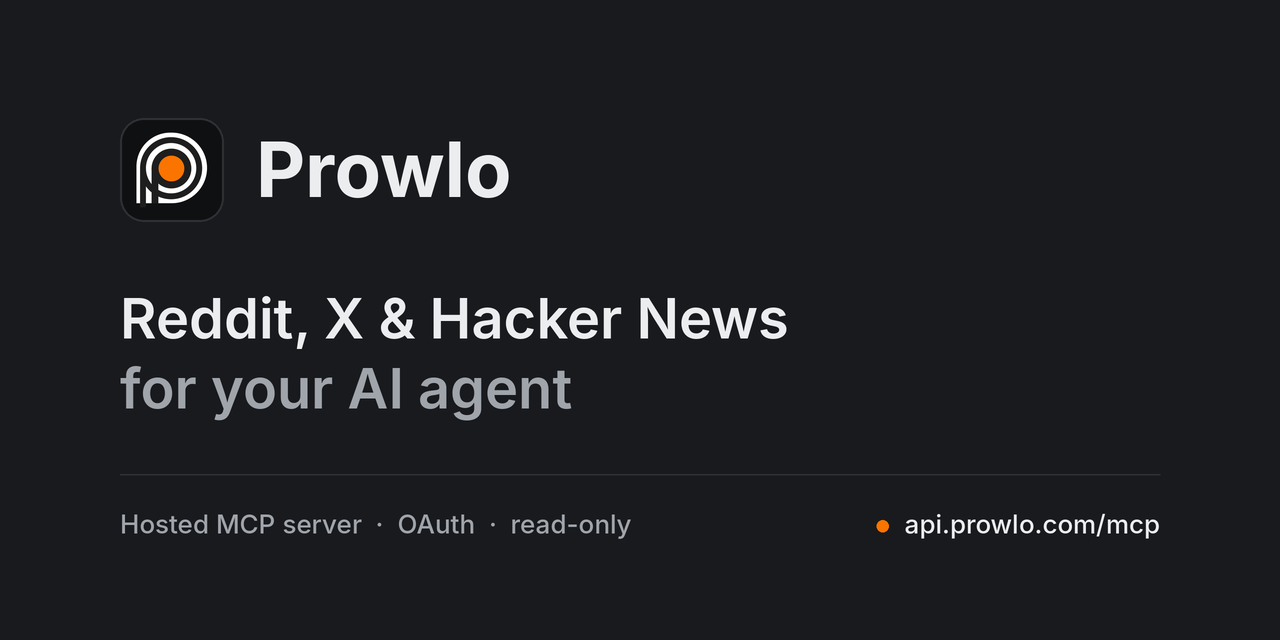
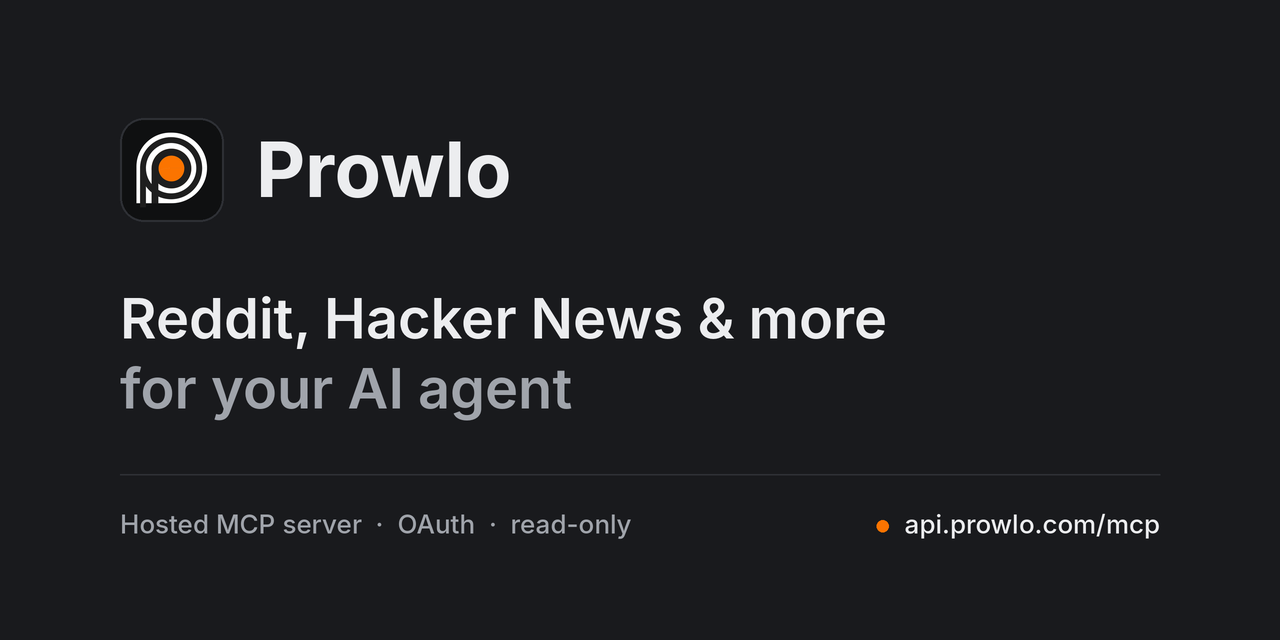
Apply directory-policy review fixes to docs and manifests
- Lead with Reddit and Hacker News (H1, tagline, server.json, plugin.json,
  social preview); X is one source among several
- Read-only wording; drop drafting and lead-gen framing
- Stop advertising watching individual Reddit users; reword social_get_user*
  and add a responsible-use line
- List Watcher platform values; trial live-read cap (50/day)
- Revoke via Settings > Connected Apps; research_get wording
- Remove .claude-plugin/ and .mcp.json (real plugin lives in
  prowlo-com/prowlo-plugin); link it from the README
- Remove Smithery badge
- Cline config: "type": "streamableHttp"
- server.json: light/dark icons matching the live server

Claude-Session: https://claude.ai/code/session_011snKU4sbhrmymS5zJMkMQF

Changed region(s): [[0.25, 0.4688, 0.6875, 0.5312]]

diff --git a/README.md b/README.md
@@ -1,10 +1,9 @@
-# Prowlo — give your AI agent eyes on Reddit & X
+# Prowlo — Reddit, Hacker News & more for your AI agent
 
 [![License: MIT](https://img.shields.io/badge/license-MIT-blue.svg)](LICENSE)
 [![MCP Registry](https://img.shields.io/badge/MCP_Registry-com.prowlo%2Freddit--x-ff7400)](https://registry.modelcontextprotocol.io/v0/servers?search=com.prowlo/reddit-x)
-[![smithery badge](https://smithery.ai/badge/egidijus-ambr/prowlo)](https://smithery.ai/servers/egidijus-ambr/prowlo)
 
-**Social research for AI agents — research that runs 24/7.** Prowlo is a hosted MCP server. Watchers collect new posts from Reddit, X, Hacker News, Mastodon and RSS, and your agent searches them by meaning from Claude, Cursor or any MCP client.
+**Social research for AI agents — research that runs 24/7.** Prowlo is a hosted MCP server. Watchers collect new posts from Reddit and Hacker News (plus Mastodon, RSS and X), and your agent searches them by meaning from Claude, Cursor or any MCP client.
 
 ```text
 https://api.prowlo.com/mcp
@@ -14,8 +13,8 @@ https://api.prowlo.com/mcp
 
 - **Memory, not a one-off peek.** Watchers keep collecting while your laptop is closed, so your agent can look back at last week or last month.
 - **Search by meaning.** Ask for "people frustrated with their CRM" and get those posts, not just exact keyword hits.
-- **Live reads when you need them.** Pull a Reddit or Hacker News post, thread or user right now.
-- **Read-only.** Prowlo never posts, comments or votes. Your agent finds and drafts; you decide.
+- **Live reads when you need them.** Pull a Reddit or Hacker News post or comment thread right now.
+- **Prowlo is read-only.** It never posts, comments or votes.
 - **No setup.** Sign in with OAuth. No Reddit API keys, no config files for most clients.
 
 ## Contents
@@ -49,6 +48,8 @@ claude mcp add --transport http prowlo https://api.prowlo.com/mcp
 
 Then run `/mcp` inside Claude Code, pick **prowlo** and choose **Authenticate**. Add `-s user` to the first command to make Prowlo available in every project.
 
+Claude Code plugin with skills: [github.com/prowlo-com/prowlo-plugin](https://github.com/prowlo-com/prowlo-plugin)
+
 ### Cursor
 
 Add to `~/.cursor/mcp.json` (or **Settings → MCP → Add new server**). Cursor opens a browser window to sign in.
@@ -79,12 +80,13 @@ code --add-mcp '{"name":"prowlo","type":"http","url":"https://api.prowlo.com/mcp
 }
 ```
 
-**Cline** (`cline_mcp_settings.json`) and other clients that need a key: create an API key in your Prowlo settings and send it as a header.
+**Cline** (`cline_mcp_settings.json`) and other clients that need a key: create an API key in your Prowlo settings and send it as a header. Cline needs `"type": "streamableHttp"`; without it, Cline falls back to the legacy SSE transport.
 
 ```json
 {
   "mcpServers": {
     "prowlo": {
+      "type": "streamableHttp",
       "url": "https://api.prowlo.com/mcp",
       "headers": { "Authorization": "Bearer YOUR_PROWLO_API_KEY" }
     }
@@ -107,8 +109,8 @@ Ready-to-copy config files for each client are in [`examples/`](examples/).
 Once connected, just ask your agent:
 
 - "Watch r/SaaS and r/startups, and add a keyword monitor for 'GummySearch alternative' across all of Reddit."
-- "Search my Prowlo records from the last 30 days for people asking for a tool to track Reddit mentions. Summarize the top five with links."
-- "Which subreddits are best for indie SaaS founders, and how strict are they about self-promotion?"
+- "Search my Prowlo records from the last 30 days for discussions about tracking Reddit mentions. Summarize the main points with links."
+- "Which subreddits are best for indie SaaS founders, and what are their posting rules?"
 - "What are people on Hacker News saying about running LLMs locally this week? Read the top thread and summarize the main arguments."
 - "Create an alert that sends new posts mentioning our brand to Slack."
 - "Set up a daily trend for mentions of our competitor and show me how it changed this month."
@@ -140,8 +142,8 @@ Real-time Reddit and Hacker News reads. Metered: 1 credit each, daily cap.
 | `social_search` | Search Reddit or Hacker News right now | Read |
 | `social_list_posts` | List a subreddit's posts or Hacker News stories (hot, new, top, ...) | Read |
 | `social_get_post` | Fetch one post or story with its comment thread | Read |
-| `social_get_user` | Fetch a Reddit or Hacker News user profile | Read |
-| `social_get_user_activity` | Fetch a user's recent posts or comments | Read |
+| `social_get_user` | Public profile of an account in a thread you're reading (Reddit or Hacker News) | Read |
+| `social_get_user_activity` | Recent public posts or comments of an account in a thread you're reading | Read |
 | `social_find_channels` | Find subreddits, or get one subreddit's details and rules | Read |
 
 ### Catalog
@@ -161,7 +163,7 @@ What Prowlo collects into your Dataset.
 | Tool | What it does | Access |
 |---|---|---|
 | `list_watchers` | List your Watchers, their sources, tags and status | Read |
-| `watcher_create` | Start watching a subreddit, user, feed or Reddit-wide search query | **Write** |
+| `watcher_create` | Start watching a subreddit, Hacker News, a Mastodon or RSS feed, an X account, or a Reddit-wide search query | **Write** |
 | `watcher_update` | Pause or resume a Watcher, or replace its tags | **Write** |
 | `watcher_delete` | Delete a Watcher and its records | **Write** |
 | `watcher_remove_source` | Remove a source from a Watcher | **Write** |
@@ -212,7 +214,7 @@ Your own labels on collected posts. These do not search Reddit.
 
 | Tool | What it does | Access |
 |---|---|---|
-| `research_get` | Read your community research report: ranked subreddits with quoted evidence, competitors, voice of customer and an engagement plan | Read |
+| `research_get` | Read your community research report: ranked subreddits with quoted evidence, competitors and voice of customer, if Prowlo has prepared one for your workspace | Read |
 
 Full API reference: <https://prowlo.com/docs/api-reference>
 
@@ -220,13 +222,24 @@ Full API reference: <https://prowlo.com/docs/api-reference>
 
 | Source | Watch (collected into your records) | Live reads |
 |---|---|---|
-| **Reddit** | Subreddits, Reddit users, and keyword searches across all of Reddit | Yes |
-| **X** | Accounts | — |
+| **Reddit** | Subreddits and keyword searches across all of Reddit | Yes |
 | **Hacker News** | Yes | Yes |
 | **Mastodon** | Yes | — |
 | **RSS** | Any feed | — |
+| **X** | Accounts (paid plan) | — |
 
-Each Watcher follows one source. New posts are collected on an hourly schedule and become searchable by meaning. Keyword Monitors search all of Reddit once a day.
+Each Watcher follows one source. When your agent creates a Watcher, it sets the `platform` to one of:
+
+| `platform` | Watches |
+|---|---|
+| `reddit` | One subreddit (the default) |
+| `reddit_search` | A search query across all of Reddit, checked daily (a Keyword Monitor) |
+| `hackernews` | A Hacker News feed or query |
+| `mastodon` | A Mastodon hashtag or account feed |
+| `rss` | Any RSS or Atom feed |
+| `x_user` | One X account (paid plan only) |
+
+New posts are collected on an hourly schedule and become searchable by meaning. Keyword Monitors search all of Reddit once a day.
 
 ## Limits & pricing
 
@@ -236,7 +249,7 @@ The plan includes:
 
 - 25 Watchers, each checked hourly
 - 20 Keyword Monitors across all of Reddit (3 during the trial)
-- 200 live reads per day
+- 200 live reads per day (50/day during the trial)
 - 10 Alerts + Trends and 3 webhook destinations
 - MCP, REST and webhooks
 
@@ -250,11 +263,13 @@ Ask your agent to run `get_usage` to see today's usage and when it resets. Curre
 
 ## Privacy & security
 
-- **Read-only toward Reddit and X.** Prowlo never posts, comments or votes on your behalf.
+- **Read-only.** Prowlo never posts, comments or votes on any platform.
 - **No platform credentials.** You never hand over a Reddit or X login or API key.
 - **OAuth sign-in.** Your client signs in to your Prowlo account through a browser. The API key is only a fallback for clients that need one.
-- **Revocable.** Disconnect the connector in your client at any time, and delete API keys in your Prowlo settings.
+- **Revocable.** Disconnect in your client, or revoke under **Settings → Connected Apps** in your Prowlo account (admins).
 - **Scoped to your account.** Your Watchers, records, Alerts and tags belong to your organization.
+
+**Responsible use.** Don't use Prowlo to build profiles of individuals or track specific people.
 
 Read the [Privacy Policy](https://prowlo.com/privacy) and [Terms of Service](https://prowlo.com/terms).
 
@@ -271,9 +286,10 @@ This repository holds documentation, connection examples and registry manifests 
 | File | Purpose |
 |---|---|
 | [`server.json`](server.json) | Official MCP Registry entry (`com.prowlo/reddit-x`) |
-| [`.claude-plugin/plugin.json`](.claude-plugin/plugin.json) + [`.mcp.json`](.mcp.json) | Claude Code plugin manifest and server config |
 | [`plugin.json`](plugin.json) + [`mcp.json`](mcp.json) | [Agent Plugins](https://agent-plugins.org) manifest and server config |
 | [`examples/`](examples/) | Per-client connection configs |
+
+The Claude Code plugin with skills lives in its own repository: [github.com/prowlo-com/prowlo-plugin](https://github.com/prowlo-com/prowlo-plugin).
 
 ## License
 

diff --git a/examples/README.md b/examples/README.md
@@ -12,6 +12,6 @@ Every file here connects to the same hosted server: `https://api.prowlo.com/mcp`
 
 **OAuth first.** Leave out the `headers` block and the client opens a browser window to sign in to Prowlo. No key to copy or rotate.
 
-**API key fallback.** Create a key in your Prowlo settings and replace `YOUR_PROWLO_API_KEY`. Do not commit a real key.
+**API key fallback.** Create a key in your Prowlo settings and replace `YOUR_PROWLO_API_KEY`. Do not commit a real key. The `"type": "streamableHttp"` line in `with-api-key.json` is what Cline expects; for another client, use the transport name that client documents (for example `"http"` in VS Code).
 
 Claude (web, Desktop and mobile) does not need a config file at all: add `https://api.prowlo.com/mcp` as a custom connector. Claude Code uses one command. See the [main README](../README.md#connect-in-30-seconds).
